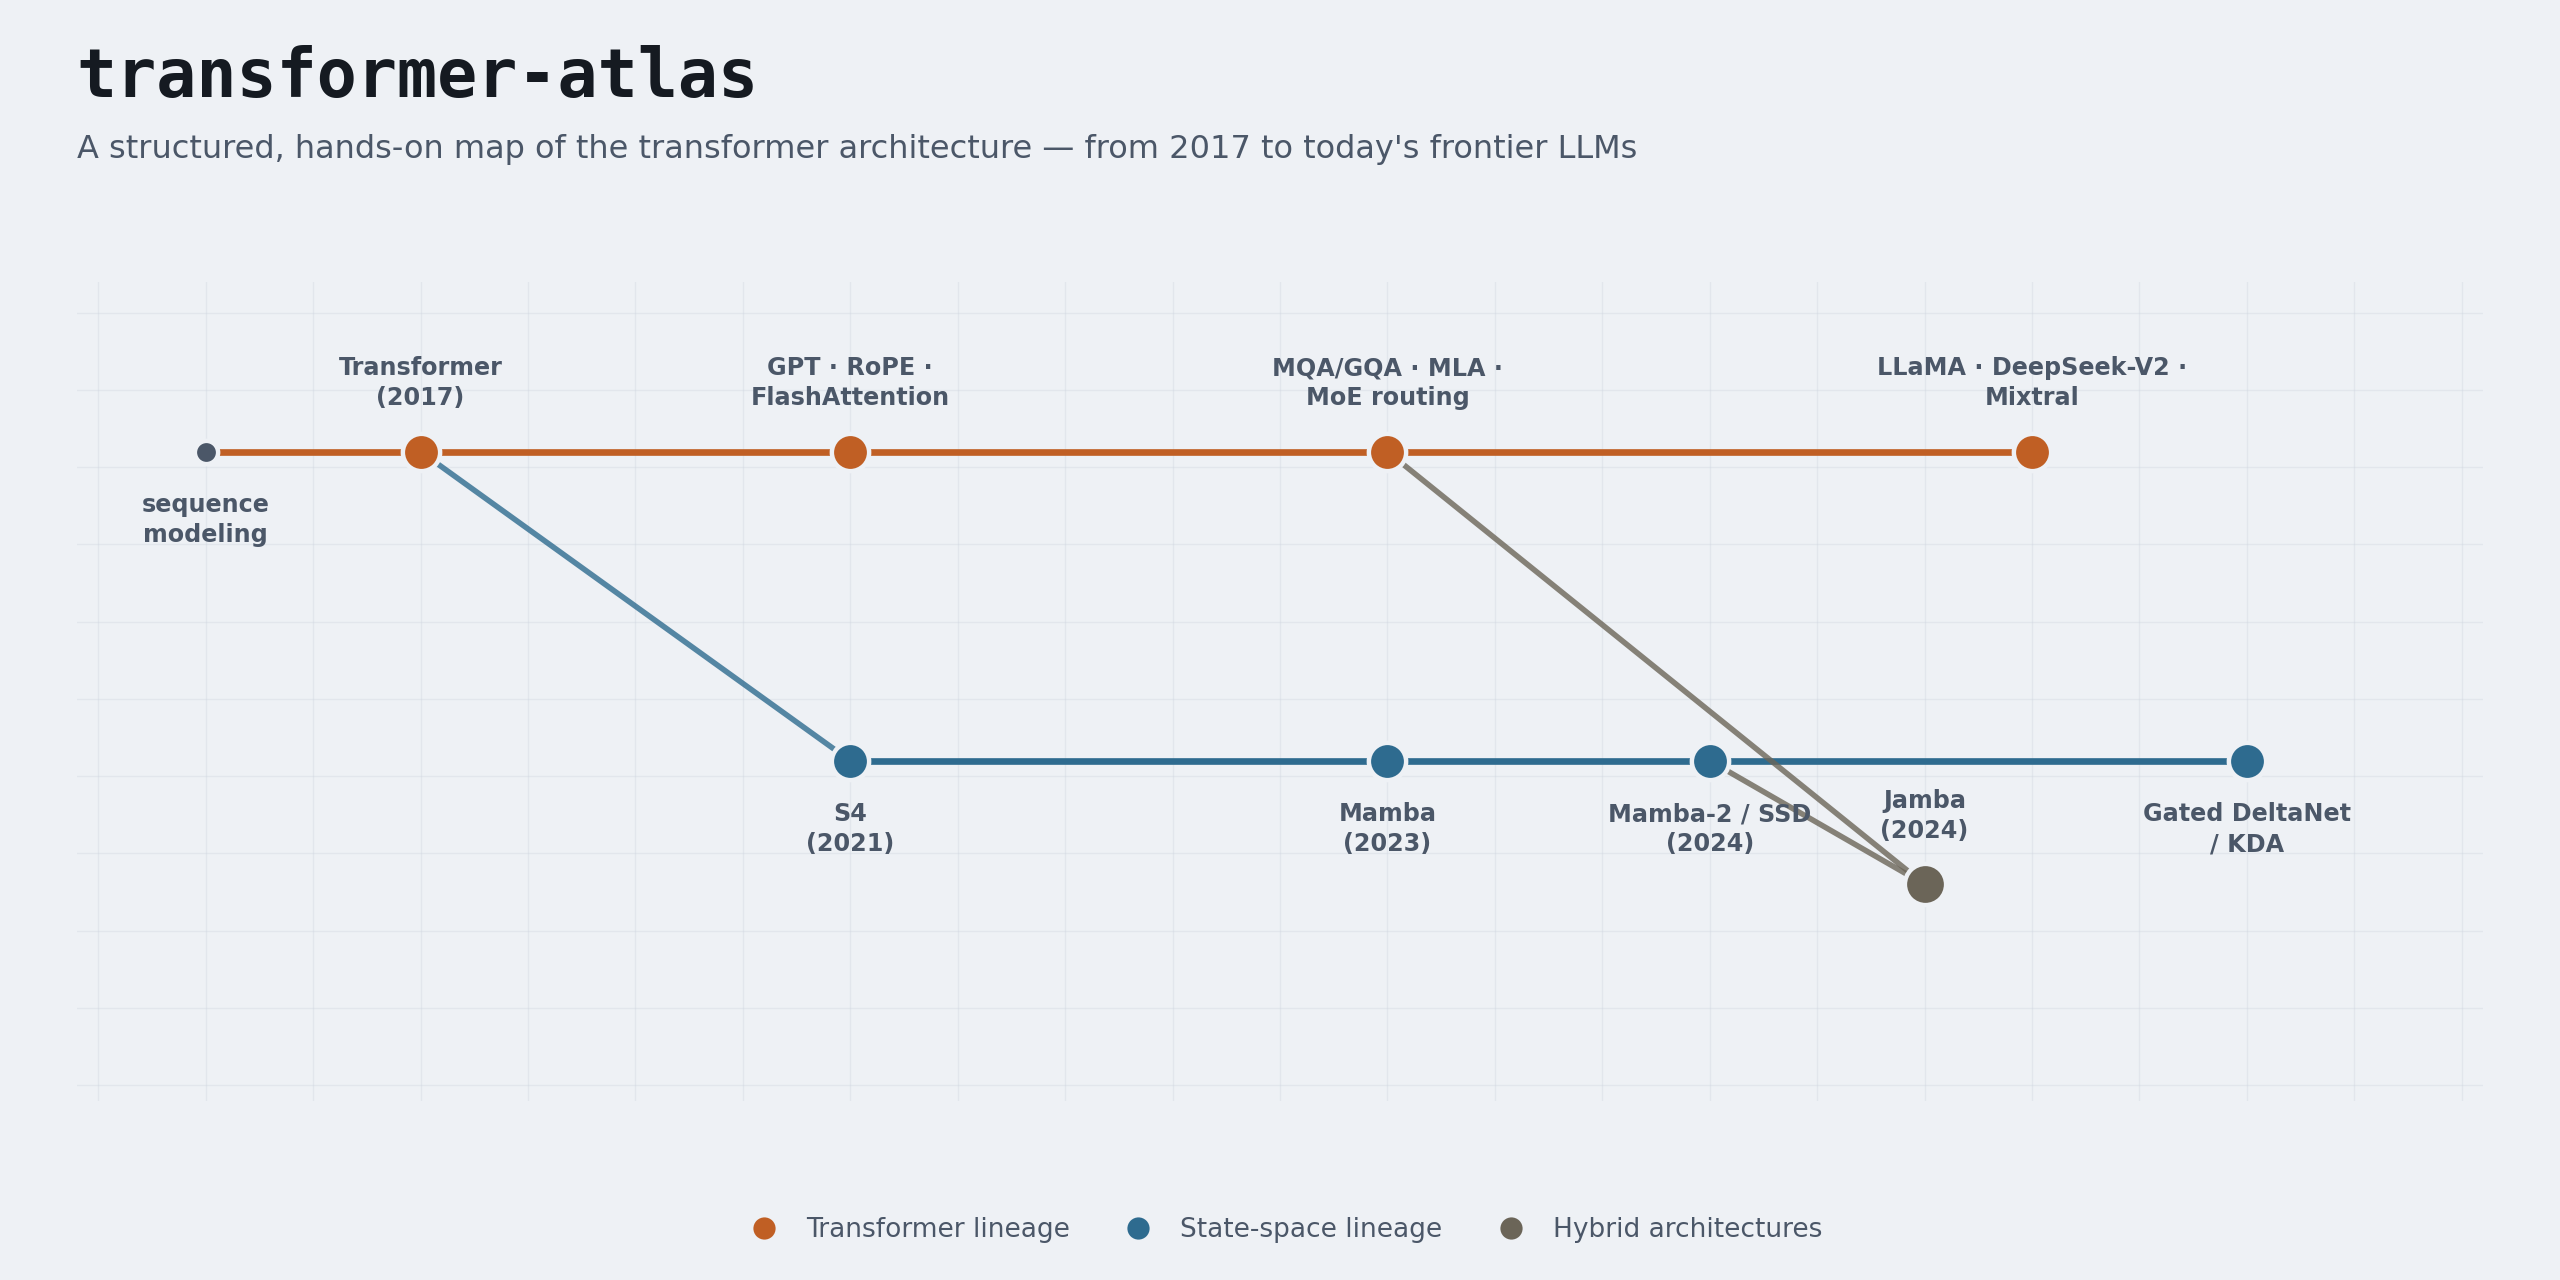
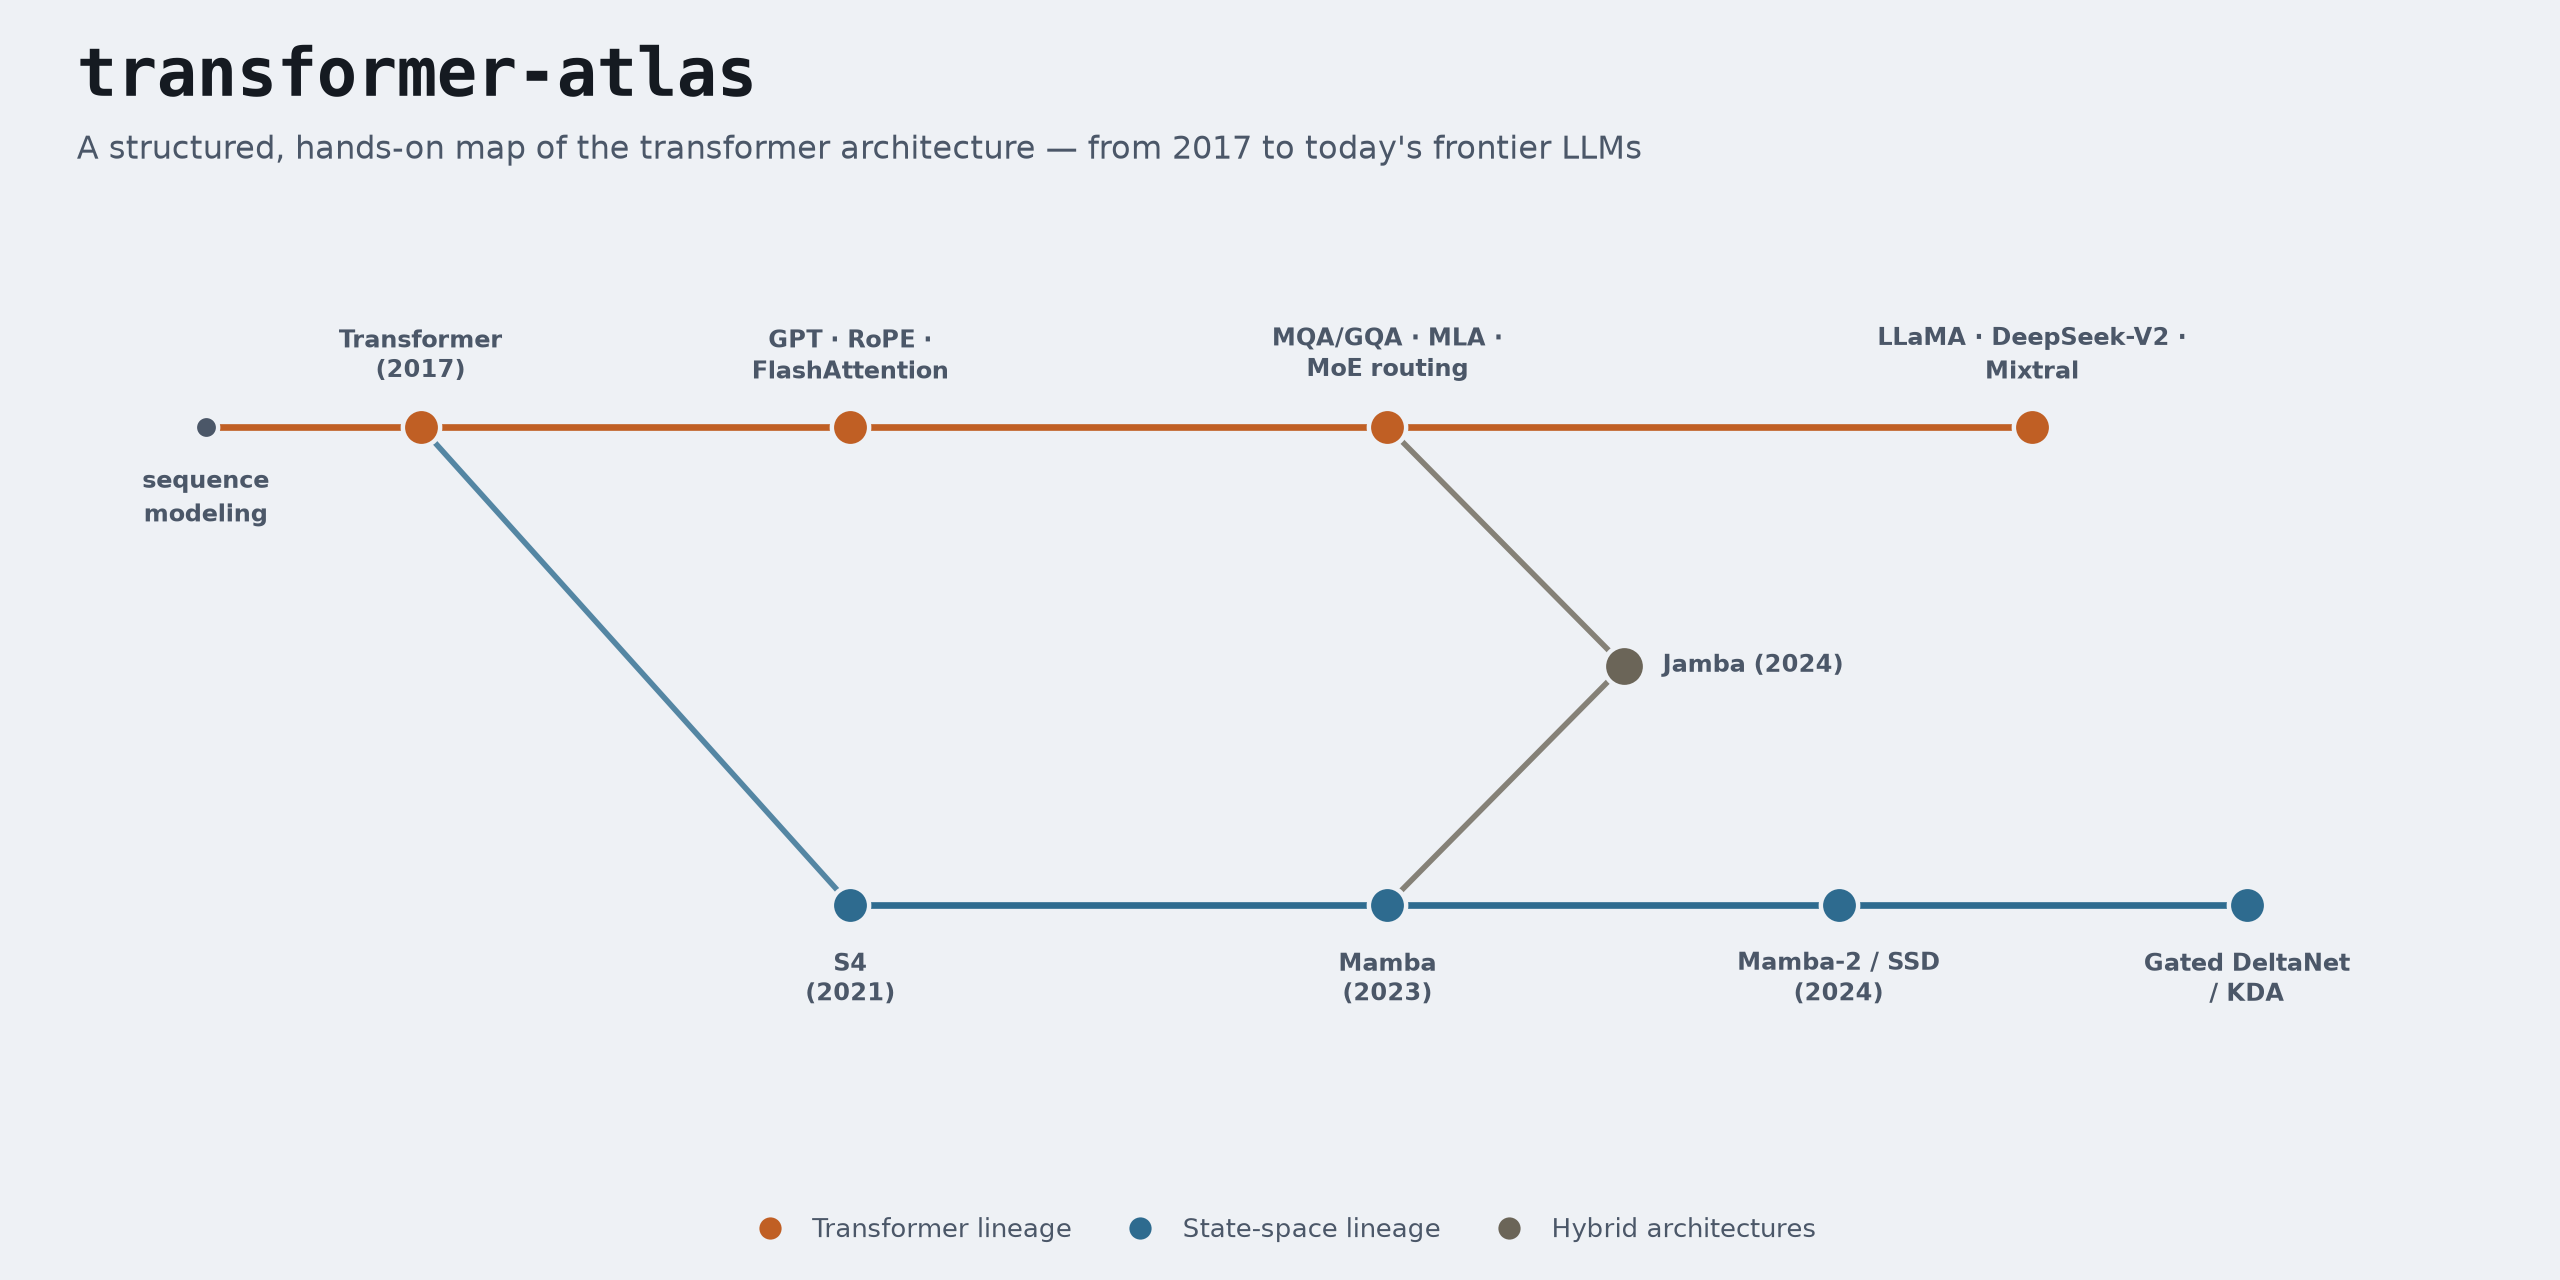
Jamba branches from Mamba, not Mamba-2; cleaner social preview
Jamba (arXiv 2403.19887, March 2024) interleaves Transformer and Mamba
layers and predates Mamba-2 (arXiv 2405.21060, May 2024). MAP.md's lineage
graph and the banner both drew the hybrid branch off Mamba-2; fixed. The
banner also drops its gridlines and puts the hybrid lane between its two
parent lanes, so no edge crosses a lane or label.

diff --git a/scripts/social_preview.py b/scripts/social_preview.py
@@ -20,9 +20,9 @@ C_TRANSFORMER = "#c05f24"   # --c-attention
 C_STATESPACE = "#2e6b8f"    # --c-statespace
 C_HYBRID = "#6b6558"        # --c-hybrid
 
-Y_TRANSFORMER = 1.55
-Y_STATESPACE = 0.55
-Y_HYBRID = 0.15
+Y_TRANSFORMER = 1.6
+Y_STATESPACE = 0.2
+Y_HYBRID = 0.9
 
 # (x, label, y-offset direction for the text: 1 above, -1 below)
 ROOT = (0.0, "sequence\nmodeling", -1)
@@ -37,11 +37,11 @@ TRANSFORMER_COMMITS = [
 STATESPACE_COMMITS = [
     (3.0, "S4\n(2021)", -1),
     (5.5, "Mamba\n(2023)", -1),
-    (7.0, "Mamba-2 / SSD\n(2024)", -1),
+    (7.6, "Mamba-2 / SSD\n(2024)", -1),
     (9.5, "Gated DeltaNet\n/ KDA", -1),
 ]
 
-HYBRID_COMMIT = (8.0, "Jamba\n(2024)", 1)
+HYBRID_COMMIT = (6.6, "Jamba (2024)", 0)
 
 
 def main() -> None:
@@ -50,18 +50,12 @@ def main() -> None:
     fig, ax = plt.subplots(figsize=(12.8, 6.4))
     fig.patch.set_facecolor(PAPER)
     ax.set_facecolor(PAPER)
-    fig.subplots_adjust(left=0.03, right=0.97, top=0.78, bottom=0.14)
+    fig.subplots_adjust(left=0.03, right=0.97, top=0.8, bottom=0.12)
 
     ax.set_xlim(-0.6, 10.6)
-    ax.set_ylim(-0.55, 2.1)
+    ax.set_ylim(-0.45, 2.1)
     ax.set_axis_off()
 
-    # Faint blueprint grid, echoing the background-image grid on
-    # docs/visual-map.html, at a scale that stays subtle behind the graph.
-    for gx in [i * 0.5 for i in range(-1, 22)]:
-        ax.axvline(gx, color=LINE, linewidth=0.5, alpha=0.35, zorder=0)
-    for gy in [i * 0.25 for i in range(-2, 9)]:
-        ax.axhline(gy, color=LINE, linewidth=0.5, alpha=0.35, zorder=0)
 
     # Root -> first transformer commit (single trunk before the branch).
     ax.plot([ROOT[0], TRANSFORMER_COMMITS[0][0]], [Y_TRANSFORMER, Y_TRANSFORMER],
@@ -80,15 +74,21 @@ def main() -> None:
              [Y_TRANSFORMER, Y_STATESPACE],
              color=C_STATESPACE, linewidth=2.0, alpha=0.8, zorder=1)
 
-    # Hybrid branch: off the state-space lane, then a merge arrow in from
-    # the transformer lane at the Jamba commit.
-    ax.plot([STATESPACE_COMMITS[2][0], HYBRID_COMMIT[0]], [Y_STATESPACE, Y_HYBRID],
+    # Hybrid branch: Jamba (March 2024) interleaves Transformer and Mamba
+    # layers, so it branches off Mamba (2023) -- Mamba-2 only appeared in May
+    # 2024 -- with a merge arrow in from the transformer lane.
+    ax.plot([STATESPACE_COMMITS[1][0], HYBRID_COMMIT[0]], [Y_STATESPACE, Y_HYBRID],
              color=C_HYBRID, linewidth=2.0, alpha=0.8, zorder=1)
     ax.plot([TRANSFORMER_COMMITS[2][0], HYBRID_COMMIT[0]], [Y_TRANSFORMER, Y_HYBRID],
              color=C_HYBRID, linewidth=2.0, alpha=0.8, zorder=1)
 
     def draw_commit(x, label, updown, y, color, size=180):
         ax.scatter([x], [y], s=size, color=color, edgecolors=PAPER, linewidths=1.6, zorder=2)
+        if updown == 0:  # label to the right (the hybrid lane sits between the others)
+            ax.annotate(label, (x, y), xytext=(14, 0), textcoords="offset points",
+                        ha="left", va="center", fontsize=8.6, color=INK_SOFT,
+                        fontweight="600")
+            return
         ax.annotate(
             label, (x, y), xytext=(0, 15 * updown), textcoords="offset points",
             ha="center", va="bottom" if updown > 0 else "top",

diff --git a/MAP.md b/MAP.md
@@ -38,9 +38,10 @@ gitGraph
     commit id: "MQA/GQA, MLA, MoE routing"
     checkout state-space
     commit id: "Mamba (2023)"
-    commit id: "Mamba-2, SSD (2024)"
     branch hybrid
     merge transformer id: "Jamba (2024)"
+    checkout state-space
+    commit id: "Mamba-2, SSD (2024)"
     checkout transformer
     commit id: "DeepSeek-V2, LLaMA, Mixtral"
     checkout state-space
